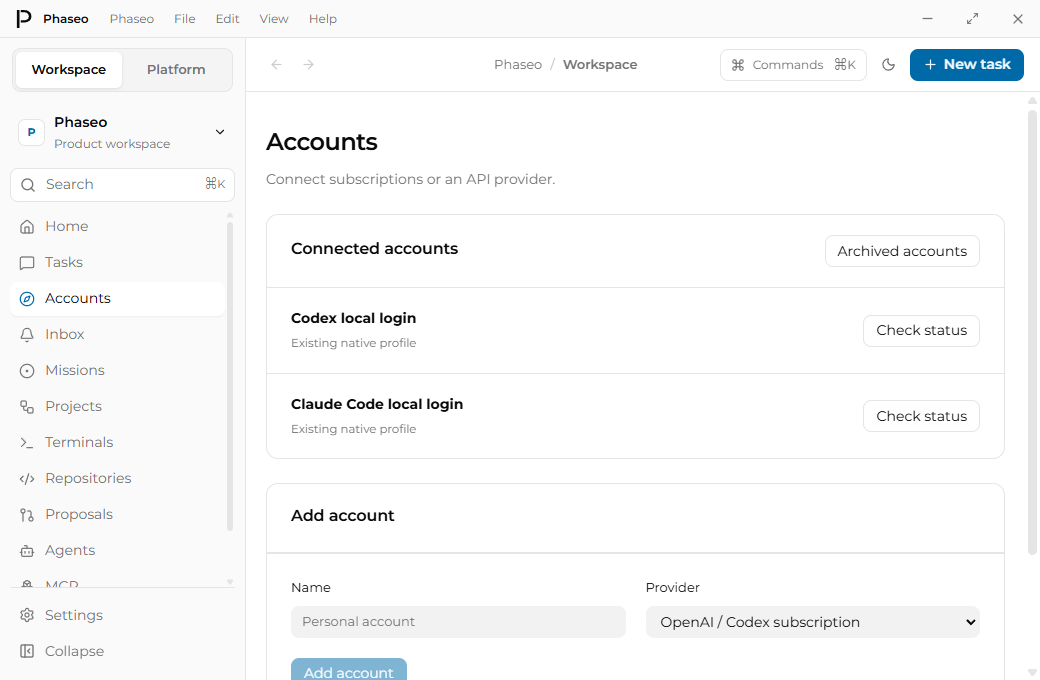
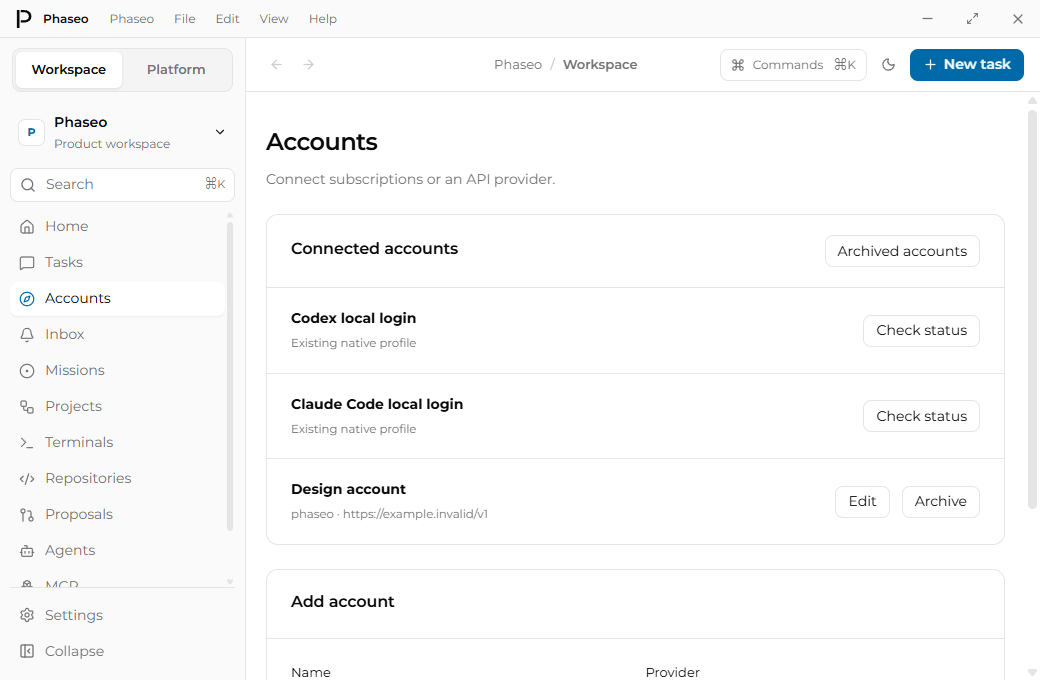
fix(desktop): align form fields and account actions

diff --git a/apps/desktop/src/renderer/views/Accounts.tsx b/apps/desktop/src/renderer/views/Accounts.tsx
@@ -59,13 +59,13 @@ export function Accounts() {
 		{workspace.accounts.filter(account => Boolean(account.archived) === showArchived).map(account => <article key={account.id}><div className="account-row"><div><strong>{account.name}</strong><small>{account.harness} · {account.kind === "api" ? account.harness === "cursor" ? "Cursor API key" : account.endpoint : account.configured ? "Signed in" : "Sign-in required"}</small></div>{account.kind === "api" && account.harness === "cursor" && <button type="button" disabled={!!checking} onClick={() => void check("cursor", account.id)}>Check status</button>}{account.kind === "native" && <><button type="button" disabled={!!checking || signingIn === account.id} onClick={() => void check(account.harness as "codex" | "claude" | "cursor" | "grok", account.id)}>{checking === account.id ? "Checking…" : "Check status"}</button><button type="button" disabled={(!!signingIn && signingIn !== account.id) || checking === account.id} onClick={() => { if (signingIn === account.id) void api?.cancelSignIn(account.id); else void signIn(account.id); }}>{signingIn === account.id ? "Cancel sign-in" : "Sign in"}</button></>}<button type="button" disabled={signingIn === account.id || checking === account.id} onClick={() => setEditing(account.id)}>Edit</button><button type="button" disabled={signingIn === account.id || checking === account.id} onClick={() => { setEditing(undefined); void update({ type: "update-account", id: account.id, archived: !account.archived }); }}>{account.archived ? "Restore" : "Archive"}</button></div>{editing === account.id && <AccountEditor account={account} onSave={update} onCancel={() => setEditing(undefined)} />}{statuses[account.id] && <AccountStatus status={statuses[account.id]} />}</article>)}
 		</section>
 		<section className="panel"><div className="panel-heading"><h2>Add account</h2></div>
-		<form className="account-form" onSubmit={event => { event.preventDefault(); void add(); }}>
+		<form className="account-form" aria-label="Add account" onSubmit={event => { event.preventDefault(); void add(); }}>
 			<label>Name<input value={name} onChange={event => setName(event.target.value)} required placeholder="Personal account" /></label>
 			<label>Provider<select value={provider} onChange={event => setProvider(event.target.value as typeof provider)}><option value="codex">OpenAI / Codex subscription</option><option value="claude">Anthropic / Claude subscription</option><option value="cursor">Cursor</option><option value="grok">Grok subscription</option><option value="phaseo">Phaseo / compatible API</option></select></label>
 			{provider === "cursor" && <label>Connection<select value={cursorKind} onChange={event => setCursorKind(event.target.value as typeof cursorKind)}><option value="native">Browser sign-in</option><option value="api">API key</option></select></label>}
 			{provider === "cursor" && cursorKind === "api" && <label>API key<input type="password" value={apiKey} onChange={event => setApiKey(event.target.value)} autoComplete="off" required /></label>}
 			{provider === "phaseo" && <><label>API endpoint<input value={endpoint} onChange={event => setEndpoint(event.target.value)} required /></label><label>API key<input type="password" value={apiKey} onChange={event => setApiKey(event.target.value)} autoComplete="off" required /></label></>}
-			<button className="task-primary" type="submit" disabled={saving || !name.trim()}>{saving ? "Connecting…" : "Add account"}</button>
+			<div className="account-form-actions"><button className="task-primary" type="submit" disabled={saving || !name.trim()}>{saving ? "Connecting…" : "Add account"}</button></div>
 		</form>
 		<p className="task-muted">Native accounts use separate local profiles. API keys are encrypted using your device’s secure storage.</p>
 		</section>

diff --git a/apps/desktop/src/renderer/styles.css b/apps/desktop/src/renderer/styles.css
@@ -70,14 +70,15 @@
 .task-eyebrow { font-size: 12px; color: var(--text-muted); }
 .task-start h1 { margin: 12px 0; font-size: 28px; font-weight: 600; letter-spacing: -.025em; }
 .task-start > p { color: var(--text-muted); }
-.task-setup { display: grid; grid-template-columns: 1fr 1fr; gap: 16px; margin-block: 30px; }
+.task-setup { display: grid; grid-template-columns: repeat(2, minmax(0, 1fr)); gap: 16px; margin-block: 30px; }
 .task-settings { margin: 0; padding: 24px; border-bottom: 1px solid var(--border); }
 .task-settings-actions { grid-column: 1 / -1; display: flex; flex-wrap: wrap; gap: 8px; }
-.task-setup label, .account-form label { display: flex; flex-direction: column; gap: 8px; font-size: 13px; }
+.task-setup label, .account-form label { min-width: 0; display: flex; flex-direction: column; gap: 8px; font-size: 13px; }
 .task-setup label:has(> input[type="checkbox"]), .account-form label:has(> input[type="checkbox"]) { flex-direction: row; align-items: center; }
 .task-setup :is(input:not([type="checkbox"]), select, textarea), .account-form :is(input:not([type="checkbox"]), select, textarea) { width: 100%; }
 .account-form { display: grid; grid-template-columns: repeat(2, minmax(0, 1fr)); gap: 20px; padding: 24px; border-top: 1px solid var(--border); }
 .account-form > button { justify-self: start; align-self: end; }
+.panel-heading + .account-form { border-top: 0; }
 .account-form-actions { grid-column: 1 / -1; display: flex; flex-wrap: wrap; gap: 8px; }
 .accounts-page > .panel + .panel { margin-top: 24px; }
 .panel > .task-muted { margin: 0; padding: 20px 24px; }
@@ -206,7 +207,8 @@
 .account-status small { display: block; font-size: 12px; }
 .project-page { display: block; }
 .project-toolbar { display: flex; flex-wrap: wrap; gap: 8px; align-items: center; margin-bottom: 20px; }
-.project-toolbar label { display: grid; gap: 8px; font-size: 13px; }
+.project-toolbar label { min-width: 0; display: grid; gap: 8px; font-size: 13px; }
+form.project-toolbar { align-items: end; }
 .project-toolbar button[aria-pressed="true"] { background: var(--surface-muted); }
 .project-browser { display: flex; border: 1px solid var(--border); border-radius: 8px; min-height: 400px; }
 .project-browser > aside { flex: 0 0 230px; border-right: 1px solid var(--border); padding: 10px; }

diff --git a/apps/desktop/docs/design-audit.md b/apps/desktop/docs/design-audit.md
@@ -29,6 +29,8 @@ Reviewed against the live Phaseo Models and Chat layouts and the web application
 
 23. **Panel list alignment:** recent and running task rows use the same 24-pixel horizontal inset as their headings, square internal edges and one separator per row. Secondary metadata uses regular weight. This removes inherited button outlines from the list; refreshed Home captures cover both themes and window sizes.
 
+24. **Form layout:** remove duplicate separators beneath panel headings, keep Add account actions on a dedicated full-width row, and allow two-column fields to shrink within their grid. Align project form actions with their inputs. Rendered assertions verify account field containment and action placement at both window sizes; packaged captures now include the complete Add account form.
+
 The sidebar now scrolls independently while Settings and Collapse remain accessible. Application menus align to the selected trigger as text sizes change. The desktop uses the web logo rather than an invented mark.
 
 ![Home](screenshots/ai-workspace.png)
@@ -38,6 +40,8 @@ The sidebar now scrolls independently while Settings and Collapse remain accessi
 ![Missions](screenshots/missions.png)
 
 ![Accounts at minimum window size](screenshots/accounts-small-window.png)
+
+![Add account at minimum window size](screenshots/add-account-small-window.png)
 
 ![Account editing at minimum window size](screenshots/account-editor-small-window.png)
 
@@ -53,8 +57,8 @@ The sidebar now scrolls independently while Settings and Collapse remain accessi
 
 ## Reproduce and limits
 
-Run `pnpm --filter @phaseo/desktop audit:design`. Captures and DOM size/spacing observations are written to `output/playwright/design-audit/after`. The audit waits for the selected page heading before capturing; conversation settings also wait for a rendered frame and verify their inset. It covers ten pages plus conversation and settings states at 1440×920 and 1040×680 in light and dark modes: 68 screenshots, including code blocks, account editing, expanded agent commands, agent editing and Grok reasoning settings in each theme/window size.
+Run `pnpm --filter @phaseo/desktop audit:design`. Captures and DOM size/spacing observations are written to `output/playwright/design-audit/after`. The audit waits for the selected page heading before capturing; conversation settings also wait for a rendered frame and verify their inset. It covers ten pages plus conversation and settings states at 1440×920 and 1040×680 in light and dark modes: 72 screenshots, including code blocks, account editing, expanded agent commands, agent editing and Grok reasoning settings in each theme/window size.
 
 Focus rings, larger labels and current-page semantics improve readability and navigation. Screenshots do not verify screen-reader operation, complete keyboard focus management, contrast in every state, Windows scaling, macOS/Linux rendering, large histories, or live provider sign-in. Those remain separate checks.
 
-After packaging, `pnpm --filter @phaseo/desktop exec electron scripts/design-audit.mjs --app-entry=out/Phaseo-win32-x64/resources/app.asar/dist/main/index.mjs` runs the same 68 captures against the archive and writes `output/playwright/design-audit/packaged-after`. The Windows archive passes this audit, including offline highlighting and exact code copying through the owned clipboard fixture.
+After packaging, `pnpm --filter @phaseo/desktop exec electron scripts/design-audit.mjs --app-entry=out/Phaseo-win32-x64/resources/app.asar/dist/main/index.mjs` runs the same 72 captures against the archive and writes `output/playwright/design-audit/packaged-after`. The Windows archive passes this audit, including offline highlighting and exact code copying through the owned clipboard fixture.
